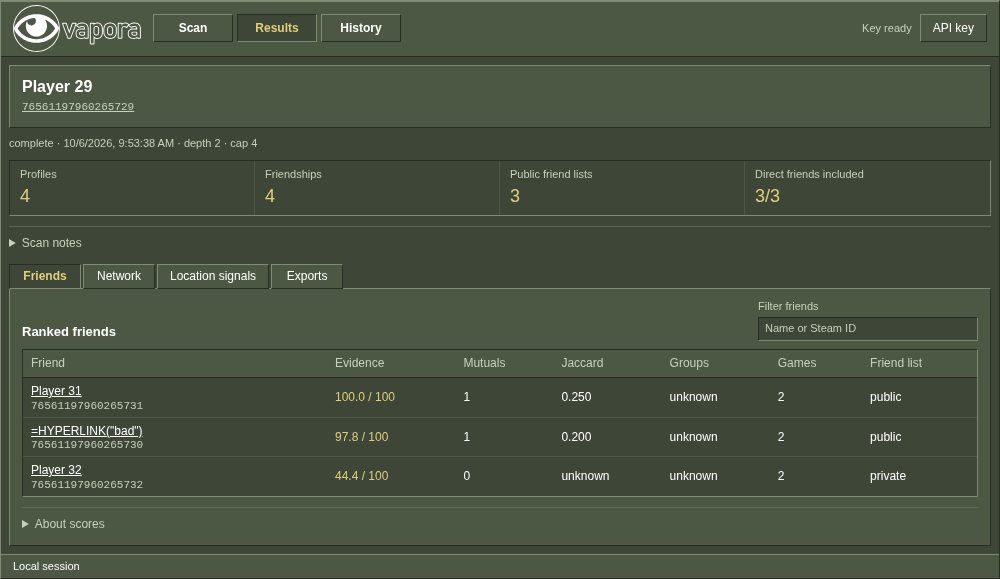
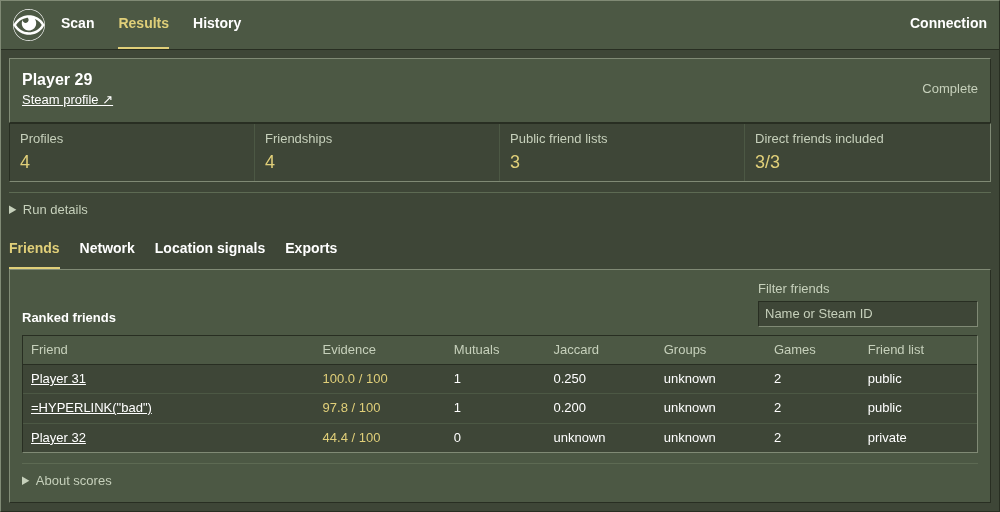
fix(ui): crop branding to the eye and separate tabs from actions

diff --git a/ui/style.css b/ui/style.css
@@ -16,7 +16,7 @@
   --Outset: var(--BevelLight) var(--BevelDark) var(--BevelDark) var(--BevelLight);
   --Inset: var(--BevelDark) var(--BevelLight) var(--BevelLight) var(--BevelDark);
   --Mono: "Lucida Console", "Courier New", monospace;
-  font: 12px/1.4 Tahoma, Verdana, "Segoe UI", sans-serif;
+  font: 13px/1.4 Tahoma, Verdana, "Segoe UI", sans-serif;
   color: var(--OffWhite);
   background: #000;
   scrollbar-color: var(--LightGreenBG) var(--DarkGreenBG);
@@ -33,7 +33,7 @@ a:hover { color: var(--Maize); }
 :focus-visible { outline: 2px solid var(--Maize); outline-offset: 1px; }
 #results:focus { outline: none; }
 .sr-only { position: absolute; width: 1px; height: 1px; overflow: hidden; clip-path: inset(50%); white-space: nowrap; }
-.hint { color: var(--Label); font-size: 11px; }
+.hint { color: var(--Label); }
 .skip { position: fixed; top: -40px; left: 8px; z-index: 10; padding: 4px 8px; background: var(--GreenBG); border: 1px solid var(--Maize); }
 .skip:focus { top: 8px; }
 
@@ -66,23 +66,28 @@ summary:hover { color: var(--Maize); }
 fieldset { min-width: 0; margin: 0; padding: 0; border: 0; }
 legend { float: left; width: 100%; margin: 0 0 6px; padding: 0; }
 legend + * { clear: both; }
-legend, .panel-title { display: block; color: var(--Maize); font-size: 12px; font-weight: bold; }
+legend, .panel-title { display: block; color: var(--Maize); font-size: 13px; font-weight: bold; }
 .panel-title { margin: 0 0 6px; }
 .panel { min-width: 0; padding: 10px 12px 12px; background: var(--GreenBG); border: 1px solid; border-color: var(--Outset); }
 
 /* Toolbar */
-.toolbar { display: flex; align-items: center; gap: 12px; min-height: 54px; padding: 4px 12px; background: var(--GreenBG); border-bottom: 1px solid var(--BevelDark); box-shadow: inset 0 1px var(--BevelLight); }
-.brand { display: block; flex: none; width: 128px; height: auto; }
-.workspace-tabs { display: flex; gap: 4px; }
-.workspace-tabs button { min-width: 80px; min-height: 28px; font-weight: bold; }
+.toolbar { display: flex; align-items: center; gap: 16px; min-height: 48px; padding: 0 12px; background: var(--GreenBG); border-bottom: 1px solid var(--BevelDark); }
+.brand { display: block; flex: none; width: 32px; height: 32px; }
+.workspace-tabs { display: flex; align-self: stretch; gap: 24px; }
+/* Navigation names the current view. Bevels belong to actions, not tabs. */
+.workspace-tabs button, .key-button, .tabs button {
+  min-width: 0; min-height: 48px; padding: 8px 0; font-size: 14px; font-weight: bold;
+  background: transparent; border: 0; border-bottom: 2px solid transparent;
+}
+.workspace-tabs button:active, .key-button:active, .tabs button:active { background: transparent; border-color: transparent; }
+.workspace-tabs button[aria-current="page"], .key-button[aria-current="page"], .tabs button[aria-current="page"] {
+  background: transparent; border-color: transparent; border-bottom-color: var(--Maize);
+}
 .key-status { display: flex; align-items: center; gap: 8px; margin-left: auto; }
-#key-indicator { color: var(--Label); font-size: 11px; }
-#key-indicator[data-key="missing"] { color: var(--Maize); }
-.key-button { min-height: 28px; }
 #notice { padding: 6px 12px; color: var(--Maize); background: #4a4526; border-bottom: 1px solid var(--MaizeBG); white-space: pre-wrap; overflow-wrap: anywhere; }
 .scan-progress { display: grid; grid-template-columns: auto minmax(120px, 1fr) auto auto; align-items: center; gap: 12px; padding: 6px 12px; background: var(--GreenBG); border-bottom: 1px solid var(--BevelDark); }
-.scan-progress h2 { color: var(--Maize); font-size: 12px; }
-#progress-text { color: var(--Label); font-size: 11px; font-variant-numeric: tabular-nums; }
+.scan-progress h2 { color: var(--Maize); font-size: 13px; }
+#progress-text { color: var(--Label); font-variant-numeric: tabular-nums; }
 progress { appearance: none; width: 100%; height: 12px; background: var(--DarkGreenBG); border: 1px solid; border-color: var(--Inset); }
 progress::-webkit-progress-bar { background: var(--DarkGreenBG); }
 progress::-webkit-progress-value { background: var(--FullGreen); }
@@ -103,7 +108,7 @@ main { min-width: 0; padding: 8px; }
 .signals { display: grid; gap: 2px; align-content: start; }
 details { margin-top: 10px; padding-top: 8px; border-top: 1px solid var(--Rule); }
 .weights { display: grid; grid-template-columns: repeat(auto-fill, minmax(100px, 1fr)); gap: 8px; margin-top: 8px; }
-.weights label { display: grid; gap: 3px; color: var(--Label); font-size: 11px; }
+.weights label { display: grid; gap: 3px; color: var(--Label); }
 .output-files .output-tree { margin-top: 8px; }
 .mode-output { display: flex; flex-direction: column; gap: 6px; }
 .segmented { display: grid; grid-template-columns: repeat(3, minmax(0, 1fr)); margin-bottom: 4px; }
@@ -114,7 +119,7 @@ details { margin-top: 10px; padding-top: 8px; border-top: 1px solid var(--Rule);
 .segmented label:hover span { color: var(--Maize); }
 .segmented input:checked + span { color: var(--Maize); background: var(--DarkGreenBG); border-color: var(--Inset); }
 .segmented input:focus-visible + span { position: relative; z-index: 1; outline: 2px solid var(--Maize); outline-offset: 1px; }
-.output-tree { margin: 0; padding: 8px 10px; color: var(--Maize); background: var(--DarkGreenBG); border: 1px solid; border-color: var(--Inset); font: 11px/1.45 var(--Mono); overflow: auto; }
+.output-tree { margin: 0; padding: 8px 10px; color: var(--Maize); background: var(--DarkGreenBG); border: 1px solid; border-color: var(--Inset); font: 13px/1.45 var(--Mono); overflow: auto; }
 .target-panel { display: flex; flex-direction: column; gap: 6px; }
 .target-row { display: grid; grid-template-columns: auto minmax(0, 1fr); gap: 8px; align-items: center; }
 .target-row label { font-weight: bold; }
@@ -135,10 +140,10 @@ details { margin-top: 10px; padding-top: 8px; border-top: 1px solid var(--Rule);
 /* Recent runs grow with their contents up to a bounded scrolling list. */
 #recent { max-height: 126px; overflow: auto; background: var(--DarkGreenBG); border: 1px solid; border-color: var(--Inset); }
 #recent > .hint { margin: 0; padding: 8px; }
-#recent button { display: block; width: 100%; min-height: 0; padding: 5px 8px; text-align: left; overflow-wrap: anywhere; background: transparent; border: 0; border-bottom: 1px solid var(--GreenBG); }
+#recent button { display: flex; align-items: baseline; justify-content: space-between; gap: 8px; width: 100%; min-height: 0; padding: 5px 8px; text-align: left; overflow-wrap: anywhere; background: transparent; border: 0; border-bottom: 1px solid var(--GreenBG); }
 #recent button:hover { background: var(--GreenBG); }
 #recent button[aria-current="true"] { color: var(--Maize); background: var(--GreenBG); box-shadow: inset 2px 0 var(--Maize); }
-#recent small { display: block; color: var(--Label); font-size: 11px; }
+.run-status { color: var(--Label); text-transform: capitalize; }
 
 /* Results */
 .empty-state { padding: 16px; }
@@ -146,41 +151,41 @@ details { margin-top: 10px; padding-top: 8px; border-top: 1px solid var(--Rule);
 .report-heading { display: flex; align-items: center; justify-content: space-between; gap: 12px; }
 .report-heading > div { min-width: 0; }
 #report-name { overflow-wrap: anywhere; }
-#report-profile { color: var(--Label); font: 11px var(--Mono); }
-#report-status { margin: 8px 0; }
+#report-profile { color: var(--OffWhite); }
+#report-status { margin-left: auto; color: var(--Label); text-transform: capitalize; }
 #coverage { display: grid; grid-template-columns: repeat(4, minmax(0, 1fr)); background: var(--DarkGreenBG); border: 1px solid; border-color: var(--Inset); }
 #coverage div { padding: 6px 10px; border-right: 1px solid var(--GreenBG); }
 #coverage div:last-child { border-right: 0; }
-dt { color: var(--Label); font-size: 11px; }
+dt { color: var(--Label); }
 dd { margin-top: 2px; color: var(--Maize); font-size: 18px; font-variant-numeric: tabular-nums; }
 #report-error { margin-top: 6px; color: var(--Maize); overflow-wrap: anywhere; }
-#warnings p { margin-top: 6px; color: var(--Maize); font-size: 11px; overflow-wrap: anywhere; }
-.tabs { display: flex; gap: 2px; margin: 12px 0 -1px; position: relative; }
-.tabs button { min-width: 72px; }
+#report-details { margin-top: 8px; overflow-wrap: anywhere; }
+#warnings p { margin-top: 6px; color: var(--Maize); overflow-wrap: anywhere; }
+.tabs { display: flex; gap: 20px; margin: 12px 0 0; }
+.tabs button { min-height: 36px; }
 .view { padding: 10px 12px 12px; background: var(--GreenBG); border: 1px solid; border-color: var(--Outset); }
 .view > h2 { margin-bottom: 8px; }
 .view > .hint, #node-detail { margin-top: 8px; }
 .section-line { display: flex; align-items: end; justify-content: space-between; gap: 12px; margin-bottom: 8px; }
-.section-line label { display: grid; gap: 3px; color: var(--Label); font-size: 11px; }
+.section-line label { display: grid; gap: 3px; color: var(--Label); }
 .search-label { width: 220px; }
 .table-wrap { max-width: 100%; overflow: auto; background: var(--DarkGreenBG); border: 1px solid; border-color: var(--Inset); }
 table { width: 100%; border-collapse: collapse; text-align: left; white-space: nowrap; }
 th { padding: 5px 8px; color: var(--Label); font-weight: normal; background: var(--GreenBG); border-bottom: 1px solid var(--BevelDark); }
 td { padding: 5px 8px; border-bottom: 1px solid var(--GreenBG); font-variant-numeric: tabular-nums; }
 td:first-child { min-width: 180px; white-space: normal; overflow-wrap: anywhere; }
-td small { display: block; color: var(--Label); font: 11px var(--Mono); }
 tbody tr:last-child td { border-bottom: 0; }
 tbody tr:hover { background: var(--GreenBG); }
 #friend-rows td:nth-child(2) { color: var(--Maize); }
 .graph-toolbar { display: flex; align-items: center; gap: 4px; margin-bottom: 8px; }
 .graph-toolbar button { min-width: 28px; padding-inline: 8px; }
-#graph-count { margin-left: auto; color: var(--Label); font-size: 11px; }
+#graph-count { margin-left: auto; color: var(--Label); }
 #graph { display: block; width: 100%; height: min(60vh, 520px); min-height: 260px; background: var(--DarkGreenBG); border: 1px solid; border-color: var(--Inset); }
 #graph g[role="button"] { cursor: pointer; outline: none; }
 #graph g[role="button"]:focus-visible circle { stroke: var(--Maize); stroke-width: 3; }
-#node-detail { padding: 6px 8px; font-size: 11px; overflow-wrap: anywhere; background: var(--DarkGreenBG); border: 1px solid; border-color: var(--Inset); }
+#node-detail { padding: 6px 8px; overflow-wrap: anywhere; background: var(--DarkGreenBG); border: 1px solid; border-color: var(--Inset); }
 .file-list { background: var(--DarkGreenBG); border: 1px solid; border-color: var(--Inset); }
-.file-list a { display: block; padding: 6px 10px; text-decoration: none; border-bottom: 1px solid var(--GreenBG); font: 11px var(--Mono); }
+.file-list a { display: block; padding: 6px 10px; text-decoration: none; border-bottom: 1px solid var(--GreenBG); font: 13px var(--Mono); }
 .file-list a:last-child { border-bottom: 0; }
 .file-list a:hover { background: var(--GreenBG); }
 
@@ -194,7 +199,6 @@ tbody tr:hover { background: var(--GreenBG); }
 #key { font-family: var(--Mono); }
 #history-result { margin-top: 12px; }
 #history-download { display: inline-block; margin: 4px 0 8px; color: var(--Maize); }
-.statusbar { display: flex; justify-content: space-between; gap: 12px; padding: 4px 12px; color: var(--Label); font-size: 11px; background: var(--GreenBG); border-top: 1px solid var(--BevelLight); }
 #connection { color: var(--OffWhite); }
 
 @media (max-width: 940px) {
@@ -204,10 +208,10 @@ tbody tr:hover { background: var(--GreenBG); }
 }
 @media (max-width: 720px) {
   body { width: calc(100% - 16px); margin: 8px; }
-  .toolbar { display: grid; grid-template-columns: minmax(0, 1fr) auto; gap: 8px; padding: 6px 8px; }
+  .toolbar { display: grid; grid-template-columns: minmax(0, 1fr) auto; gap: 0 12px; padding: 4px 12px 0; }
   .workspace-tabs { grid-column: 1 / -1; grid-row: 2; }
-  .workspace-tabs button { flex: 1; min-width: 0; }
-  .key-status { align-items: end; flex-direction: column; gap: 2px; }
+  .workspace-tabs button { flex: 1; min-height: 40px; }
+  .key-button { min-height: 40px; }
   main { padding: 8px; }
   .scan-grid { grid-template-columns: minmax(0, 1fr); grid-template-areas: "form" "target" "rail"; gap: 8px; }
   #scan-form { gap: 8px; }
@@ -218,7 +222,7 @@ tbody tr:hover { background: var(--GreenBG); }
   .scan-progress button { justify-self: start; }
   #coverage { grid-template-columns: repeat(2, minmax(0, 1fr)); }
   #coverage div:nth-child(2n) { border-right: 0; }
-  .section-line, .tabs, .graph-toolbar, .statusbar { flex-wrap: wrap; }
+  .section-line, .tabs, .graph-toolbar { flex-wrap: wrap; }
   .search-label { width: 100%; }
   .tabs button { min-width: 0; }
 }

diff --git a/ui/index.html b/ui/index.html
@@ -12,15 +12,15 @@
 <body>
   <a class="skip" href="#results">Skip to workspace</a>
   <header class="toolbar">
-    <img class="brand" src="/vapora.svg" width="5752" height="2110" alt="Vapora" decoding="async">
+    <img class="brand" src="/vapora.svg" width="32" height="32" alt="Vapora" decoding="async">
     <nav class="workspace-tabs" aria-label="Workspace">
       <button type="button" data-screen="scan" aria-controls="scan-screen" aria-current="page">Scan</button>
       <button type="button" data-screen="results" aria-controls="results-screen">Results</button>
       <button type="button" data-screen="history" aria-controls="history-screen">History</button>
     </nav>
     <div class="key-status">
-      <span id="key-indicator">Checking key</span>
-      <button class="key-button" type="button" data-screen="settings" aria-controls="settings-screen" aria-describedby="key-indicator">API key</button>
+      <span id="key-indicator" class="sr-only">Checking key</span>
+      <button class="key-button" type="button" data-screen="settings" aria-controls="settings-screen" aria-describedby="key-indicator">Connection</button>
     </div>
   </header>
   <div id="notice" role="alert" hidden></div>
@@ -64,7 +64,7 @@
             <fieldset id="preset">
               <legend>Mode</legend>
               <div class="segmented">
-                <label><input type="radio" name="preset" value="community" checked><span>Community map</span></label>
+                <label><input type="radio" name="preset" value="community" checked><span>Community</span></label>
                 <label><input type="radio" name="preset" value="inner"><span>Inner circle</span></label>
                 <label><input type="radio" name="preset" value="custom"><span>Custom</span></label>
               </div>
@@ -90,11 +90,11 @@
           <p id="target-help" class="sr-only">SteamID64, SteamID2, [U:1:ID], profile URL, or vanity name.</p>
           <div class="identity">
             <p id="target-name" class="target-name" hidden></p>
-            <p id="target-id" class="hint" hidden></p>
+            <p id="target-id" class="sr-only" hidden></p>
             <img class="avatar" src="/placeholder.jpg" width="184" height="184" alt="Default profile placeholder">
           </div>
           <div class="target-actions">
-            <button class="primary" id="scan-button" type="submit" form="scan-form">Analyze</button>
+            <button class="primary" id="scan-button" type="submit" form="scan-form" aria-describedby="key-indicator">Analyze</button>
             <button id="estimate-button" type="button">Estimate</button>
           </div>
           <p id="estimate-result" class="hint" role="status"></p>
@@ -125,12 +125,12 @@
       <section id="report" hidden>
         <div class="panel report-heading">
           <div><h1 id="report-name"></h1><a id="report-profile" target="_blank" rel="noreferrer"></a></div>
+          <p id="report-status"></p>
           <button id="resume-button" type="button" hidden>Resume run</button>
         </div>
-        <p id="report-status" class="hint"></p>
         <dl id="coverage"></dl>
         <p id="report-error" role="alert" hidden></p>
-        <details id="report-notes"><summary>Scan notes</summary><div id="warnings"></div></details>
+        <details id="report-notes"><summary>Run details</summary><p id="report-details"></p><div id="warnings"></div></details>
         <nav class="tabs" aria-label="Report views">
           <button type="button" data-view="friends" aria-current="page">Friends</button>
           <button type="button" data-view="network">Network</button>
@@ -189,6 +189,7 @@
       <fieldset class="panel narrow-panel">
         <legend class="sr-only">API key</legend>
         <p id="key-status" class="hint" role="status">Checking key status</p>
+        <p id="connection" class="hint" role="status">Connecting</p>
         <form id="key-form" class="stack-form">
           <label for="key">Steam Web API key</label>
           <input id="key" type="password" minlength="32" maxlength="32" pattern="[a-fA-F0-9]{32}" autocomplete="off" required>
@@ -198,6 +199,5 @@
       </fieldset>
     </section>
   </main>
-  <footer class="statusbar"><span id="connection" role="status">Connecting</span></footer>
 </body>
 </html>

diff --git a/ui/app.ts b/ui/app.ts
@@ -103,7 +103,7 @@ function cell(row: HTMLTableRowElement, text: string | number) {
 function playerCell(row: HTMLTableRowElement, id: SteamId, name: string) {
   const td = cell(row, ""); const link = document.createElement("a"); link.textContent = name;
   link.href = `https://steamcommunity.com/profiles/${id}/`; link.target = "_blank"; link.rel = "noreferrer";
-  const small = document.createElement("small"); small.textContent = id; td.append(link, small);
+  link.title = `Steam ID ${id}`; link.setAttribute("aria-label", `${name}, Steam ID ${id}`); td.append(link);
 }
 const number = (value: number | null, digits = 0) => value === null ? "unknown" : value.toFixed(digits);
 function renderFriends() {
@@ -135,8 +135,10 @@ function renderReport() {
   const { scan, report } = selected;
   get("empty").hidden = true; get("report").hidden = false;
   get("report-name").textContent = scan.players.find((player) => player.id === scan.seed)?.name ?? scan.seed;
-  const profile = get("report-profile"); profile.setAttribute("href", `https://steamcommunity.com/profiles/${scan.seed}/`); profile.textContent = scan.seed;
-  get("report-status").textContent = `${scan.status} · ${new Date(scan.createdAt).toLocaleString()} · depth ${scan.settings.depth} · cap ${scan.settings.maxNodes}`;
+  const profile = get("report-profile"); profile.setAttribute("href", `https://steamcommunity.com/profiles/${scan.seed}/`); profile.textContent = "Steam profile ↗";
+  profile.title = `Steam ID ${scan.seed}`;
+  get("report-status").textContent = scan.status;
+  get("report-details").textContent = `${new Date(scan.createdAt).toLocaleString()} · Steam ID ${scan.seed} · depth ${scan.settings.depth} · cap ${scan.settings.maxNodes}`;
   buttons("resume-button").hidden = scan.status === "complete" || (currentState?.job.status === "running" && currentState.job.id === scan.id);
   const coverage = get("coverage"); coverage.replaceChildren();
   for (const [label, value] of [["Profiles", report.coverage.nodes], ["Friendships", report.edges.filter((e) => e.kind === "friend").length], ["Public friend lists", report.coverage.publicLists], ["Direct friends included", `${report.coverage.admittedDirectFriends}/${report.coverage.directFriends}`]] as const) {
@@ -145,7 +147,6 @@ function renderReport() {
   }
   const warnings = get("warnings"); warnings.replaceChildren();
   get("report-error").textContent = scan.error; get("report-error").hidden = !scan.error;
-  get("report-notes").hidden = !report.warnings.length;
   for (const warning of report.warnings) { const p = document.createElement("p"); p.textContent = warning; warnings.append(p); }
   const exports = get("downloads"); exports.replaceChildren();
   for (const file of downloads) if (scan.status === "complete" || file === "scan.json" || file === "run.log") exports.append(downloadLink(scan.id, file));
@@ -217,8 +218,10 @@ function renderRecent() {
   for (const run of currentState?.runs ?? []) {
     const button = document.createElement("button"); button.type = "button"; button.textContent = run.name;
     button.setAttribute("aria-current", String(selected?.scan.id === run.id));
-    const small = document.createElement("small"); small.textContent = `${run.status} · ${run.nodes} nodes · ${new Date(run.createdAt).toLocaleString()}`;
-    button.append(small); button.addEventListener("click", () => task(() => openRun(run.id))); recent.append(button);
+    button.title = `${run.status} · ${run.nodes} profiles · ${new Date(run.createdAt).toLocaleString()}`;
+    button.setAttribute("aria-label", `${run.name}, ${button.title}`);
+    const status = document.createElement("span"); status.className = "run-status"; status.textContent = run.status;
+    button.append(status); button.addEventListener("click", () => task(() => openRun(run.id))); recent.append(button);
   }
   for (const issue of currentState?.runIssues ?? []) {
     const button = document.createElement("button"); button.type = "button"; button.textContent = `Invalid run ${issue.id}`;

diff --git a/docs/verification.md b/docs/verification.md
@@ -1,8 +1,8 @@
 # Verification
 
-The UI follows the composition in `feature/gui-and-analysis` at `9ad203818f65f9716d56611e97ad37cf6a3b8a7f`: Parameters above Mode/Output, a middle utility rail, and Target with stacked actions on the right. OMP with `anthropic/claude-opus-5-5` supplied the starting critique and HTML/CSS draft after reviewing both original screenshots, the branch styles, the rejected UI, and the real logo. The implementation keeps one stylesheet and native radio controls for modes. The follow-up uses a content-sized Steam window on a black backdrop, a 128px white logo on a compact green toolbar, compact panels, and a content-sized recent-run list. Output previews, input-format help and method notes no longer occupy the default workspace. Native disclosures retain output files and report explanations; run failures stay visible.
+The UI follows the composition in `feature/gui-and-analysis` at `9ad203818f65f9716d56611e97ad37cf6a3b8a7f`: Parameters above Mode/Output, a middle utility rail, and Target with stacked actions on the right. OMP with `anthropic/claude-opus-5-5` supplied the starting critique and HTML/CSS draft after reviewing both original screenshots, the branch styles, the rejected UI, and the real logo. The implementation keeps one stylesheet and native radio controls for modes. The follow-up uses a content-sized Steam window on a black backdrop, a 32px white eye on a compact green toolbar with underlined navigation, compact panels, and a content-sized recent-run list. Output previews, input-format help and method notes no longer occupy the default workspace. Native disclosures retain output files and report explanations; run failures stay visible.
 
-The header now uses `assets/vapora.svg`, an 11 KB vector trace of only the original white eye shapes and letter outlines. Its single path leaves the blue regions and letter interiors transparent so the green toolbar shows through; it contains no embedded raster, external reference or font. A tight viewBox removes the source image margins. The source `assets/vapora.png` and favicon `assets/vapora.ico` are unchanged. `assets/placeholder.jpg` comes unchanged from the original GUI branch. The scanner stores no avatar URL, so the target image is explicitly a placeholder; its name comes only from a matching saved run. The build bundles the SVG and the static-file allowlist serves it as `image/svg+xml`. The HTTP test checks the served SVG byte for byte and rejects the former public PNG route.
+The header now uses `assets/vapora.svg`, a 3.7 KB vector crop of only the original white eye shapes. Its square viewBox and single path contain only eye geometry. Blue regions are transparent so the green toolbar shows through. It contains no embedded raster, external reference or font. A tight viewBox removes the source image margins. The source `assets/vapora.png` and favicon `assets/vapora.ico` are unchanged. `assets/placeholder.jpg` comes unchanged from the original GUI branch. The scanner stores no avatar URL, so the target image is explicitly a placeholder; its name comes only from a matching saved run. The build bundles the SVG and the static-file allowlist serves it as `image/svg+xml`. The HTTP test checks the served SVG byte for byte and rejects the former public PNG route.
 
 `npm run verify` checks types, Oxlint, and 12 domain/integration tests. The tests use actual local HTTP responses, filesystem writes, and the real Oxlint CLI. They cover identifiers, numeric vanity URLs, settings, graph metrics, privacy, CSV escaping, history intervals, pacing/retries, malformed provider data, checkpoint interruption/resume, invalid-key resume, damaged-run isolation, local HTTP boundaries, distinct operation identities, exports, CLI exits, and assertion-comment enforcement.
 
@@ -15,10 +15,11 @@ Chrome checks used the same local Steam fixture through the real browser UI:
 - All six scan exports and the attached history export returned HTTP 200.
 - Normalized history file upload and report rendering.
 - Desktop at 1440 × 1000 and 1280 × 720, tablet at 1000 × 900, and mobile at 390 × 844, plus 320, 650, 900 and 940 pixel widths, with no page-level horizontal overflow in any view. Wide tables scroll within their container. Keyboard controls show visible focus, and Chrome reported no page errors.
-- Follow-up checks measured the desktop logo at 128px with the SVG viewBox aspect ratio and the setup window below 450px tall. Output and scan-note disclosures open correctly; a saved failed-run fixture shows its error without opening notes. The compact layout also passes at 320px.
-- The white vector logo was inspected in a 1000px browser render on green and in the actual desktop and mobile headers. A canvas pixel check found only white painted pixels and transparent regions, with no colored painted pixels. The former black toolbar is now green and about 16px shorter on desktop; the existing target placeholder is 80px on desktop and 64px on mobile. The SVG loaded with HTTP 200, retained its aspect ratio at eight viewport widths, and produced no browser errors.
+- Follow-up checks measured the desktop eye at 32 × 32px and the setup window below 450px tall. Output and scan-note disclosures open correctly; a saved failed-run fixture shows its error without opening notes. The compact layout also passes at 320px.
+- The white eye was inspected at its native 32px size in the actual desktop and mobile headers. A canvas pixel check found only white painted pixels and transparent regions, with no colored painted pixels. The toolbar is green and 49px tall on desktop; the existing target placeholder is 80px on desktop and 64px on mobile. The SVG loaded with HTTP 200, retained its aspect ratio at eight viewport widths, and produced no browser errors.
+- Workspace and report navigation use transparent backgrounds and an active underline; beveled buttons remain on actions. Visible text starts at 13px. Connection/key status is available in Connection and in accessible button descriptions. Recent runs show name and status; their tooltips and accessible labels retain dates and profile counts. Profile IDs remain in URLs, titles and accessible names; complete run metadata and warnings remain in Run details.
 - Primary text, secondary labels, and the scan button exceed 4.5:1 contrast on their surfaces; graph edges exceed 3:1 against the inset background. No looping CSS animation.
 
-Desktop screenshots capture the rendered application window; mobile shows the full page. The enlarged [vector logo preview](screenshots/logo.png) is also a browser capture. All application screenshots use fixture data: [scan setup](screenshots/scan.png), [desktop report](screenshots/desktop.png), [mobile scan setup](screenshots/mobile.png).
+Desktop screenshots capture the rendered application window; mobile shows the full page. The native-size [eye preview](screenshots/logo.png) is also a browser capture. All application screenshots use fixture data: [scan setup](screenshots/scan.png), [desktop report](screenshots/desktop.png), [mobile scan setup](screenshots/mobile.png).
 
 Authenticated live Steam requests were not tested because the development environment has no Steam API key. Provider contracts follow Steam's official documentation, but real account visibility and publisher group permissions still need a credentialed check. CI runs the locked installation and verification on Linux, Windows, and macOS.

diff --git a/docs/product-contract.md b/docs/product-contract.md
@@ -20,9 +20,9 @@ Vapora runs locally on Node.js 24 and uses TypeScript and Effect 4. The Python i
 - Support local normalized SteamHistory JSON and NDJSON imports with validated timestamps and individual Steam IDs. Preserve profile/history details and rank friendship durations separately from network scores.
 - Provide a CLI with scan, estimate, resume, history, analyze, serve, profiles, and recent-run operations. Estimates are labeled sampling estimates and bounded by the cap.
 - Provide a working local browser UI for configuration, estimation, scanning, cancellation, resume, reports, graph exploration, imports, saved profiles, and export downloads. Render names as text, support keyboard navigation, show actual progress, and retain UI state through polling.
-- Polish the existing `feature/gui-and-analysis` composition: compact toolbar, scan parameters above mode/output on the left, and target/profile/actions on the right. Use its classic Steam olive surfaces, inset fields, beveled controls, compact type, and mustard selection accents. Keep one stylesheet, visible focus and scrollbars, and no looping animation.
+- Polish the existing `feature/gui-and-analysis` composition: compact toolbar, scan parameters above mode/output on the left, and target/profile/actions on the right. Use its classic Steam olive surfaces, inset fields, beveled controls, compact type, and mustard selection accents. Use plain navigation tabs with an active underline, reserving beveled buttons for actions. Keep readable 13px labels and put repeated identifiers and run timestamps in profile links, tooltips and run details. Show connection status in Connection. Keep one stylesheet, visible focus and scrollbars, and no looping animation.
 - Size the Steam window to its content, with a compact green toolbar rather than a black banner. Keep recent-run lists bounded, avoid stretching empty panels, and put format help and method notes behind native disclosures. Keep run failures visible.
-- Use `assets/vapora.svg`, traced from the existing Vapora eye and wordmark, using only its original white eye shapes and letter outlines. Blue regions and letter interiors must be transparent so the green toolbar shows through. The SVG contains vector paths, not an embedded raster or runtime font. Preserve the source PNG and existing favicon. Bundle local visual assets and serve them through an explicit allowlist. A target preview must not invent profile data or imply that an unscanned profile has been resolved.
+- Use `assets/vapora.svg`, cropped to the original white eye only, with a square viewBox and a 32px toolbar size. Blue regions must be transparent so the green toolbar shows through. The SVG contains vector paths, not an embedded raster or runtime font. Preserve the source PNG and existing favicon. Bundle local visual assets and serve them through an explicit allowlist. A target preview must not invent profile data or imply that an unscanned profile has been resolved.
 - Separate Scan, Results, History, and Connection views. Switching views preserves inputs and reports; opening a saved or completed run shows Results unless the user navigates elsewhere while it loads. Progress and cancellation stay accessible in every view. Stack the layout at narrow widths without page-level horizontal overflow.
 - Give each scan/resume operation a unique operation ID, independent of its run ID and server instance. Process each terminal result once, including repeated failures before creating a run and repeated cancellation of the same run.
 - Show actionable failure messages in the browser and saved report; keep stack traces in the run log.
